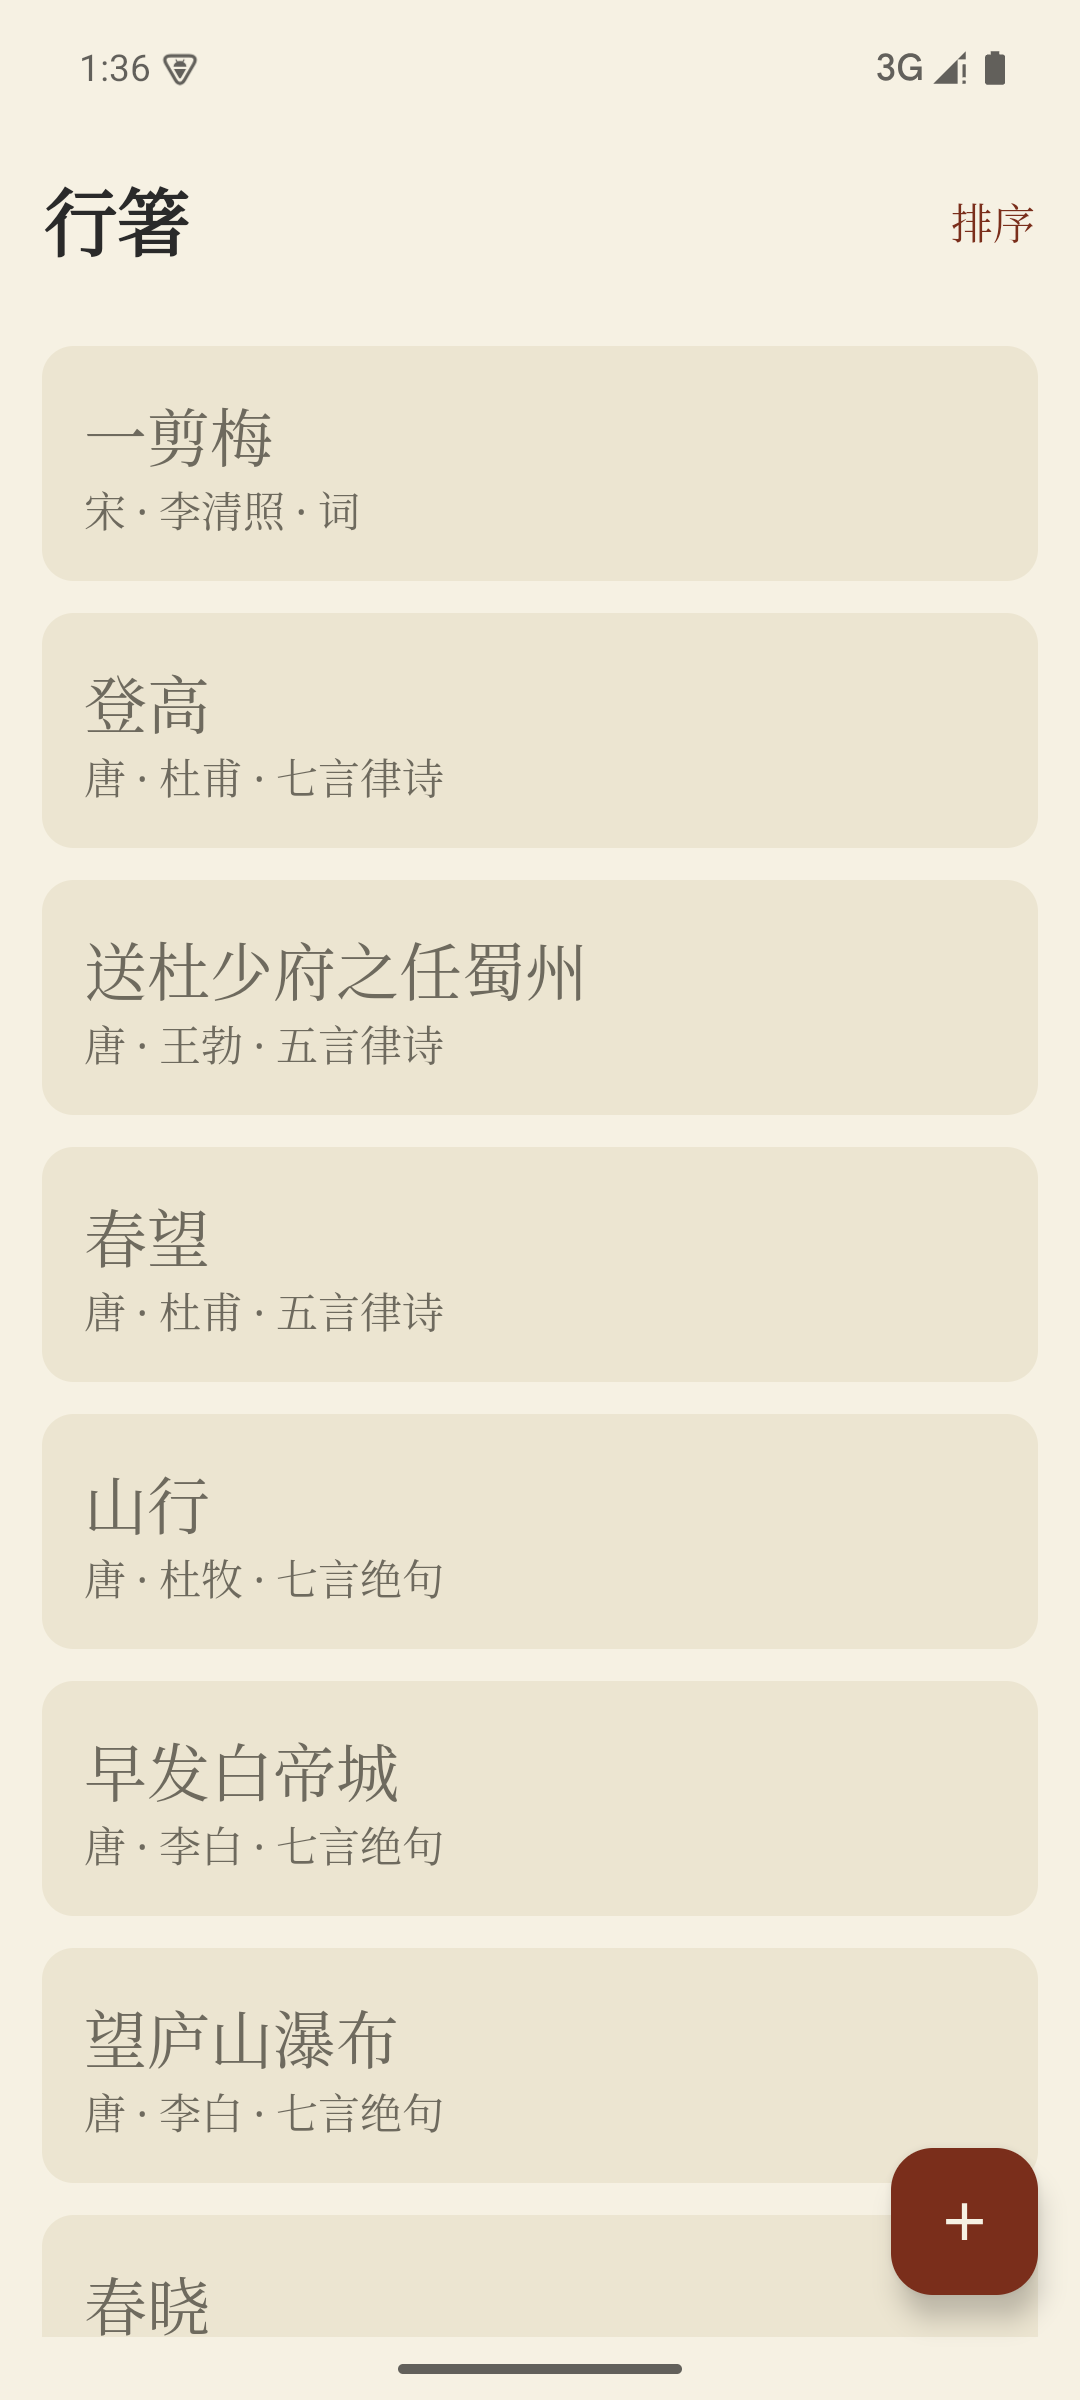
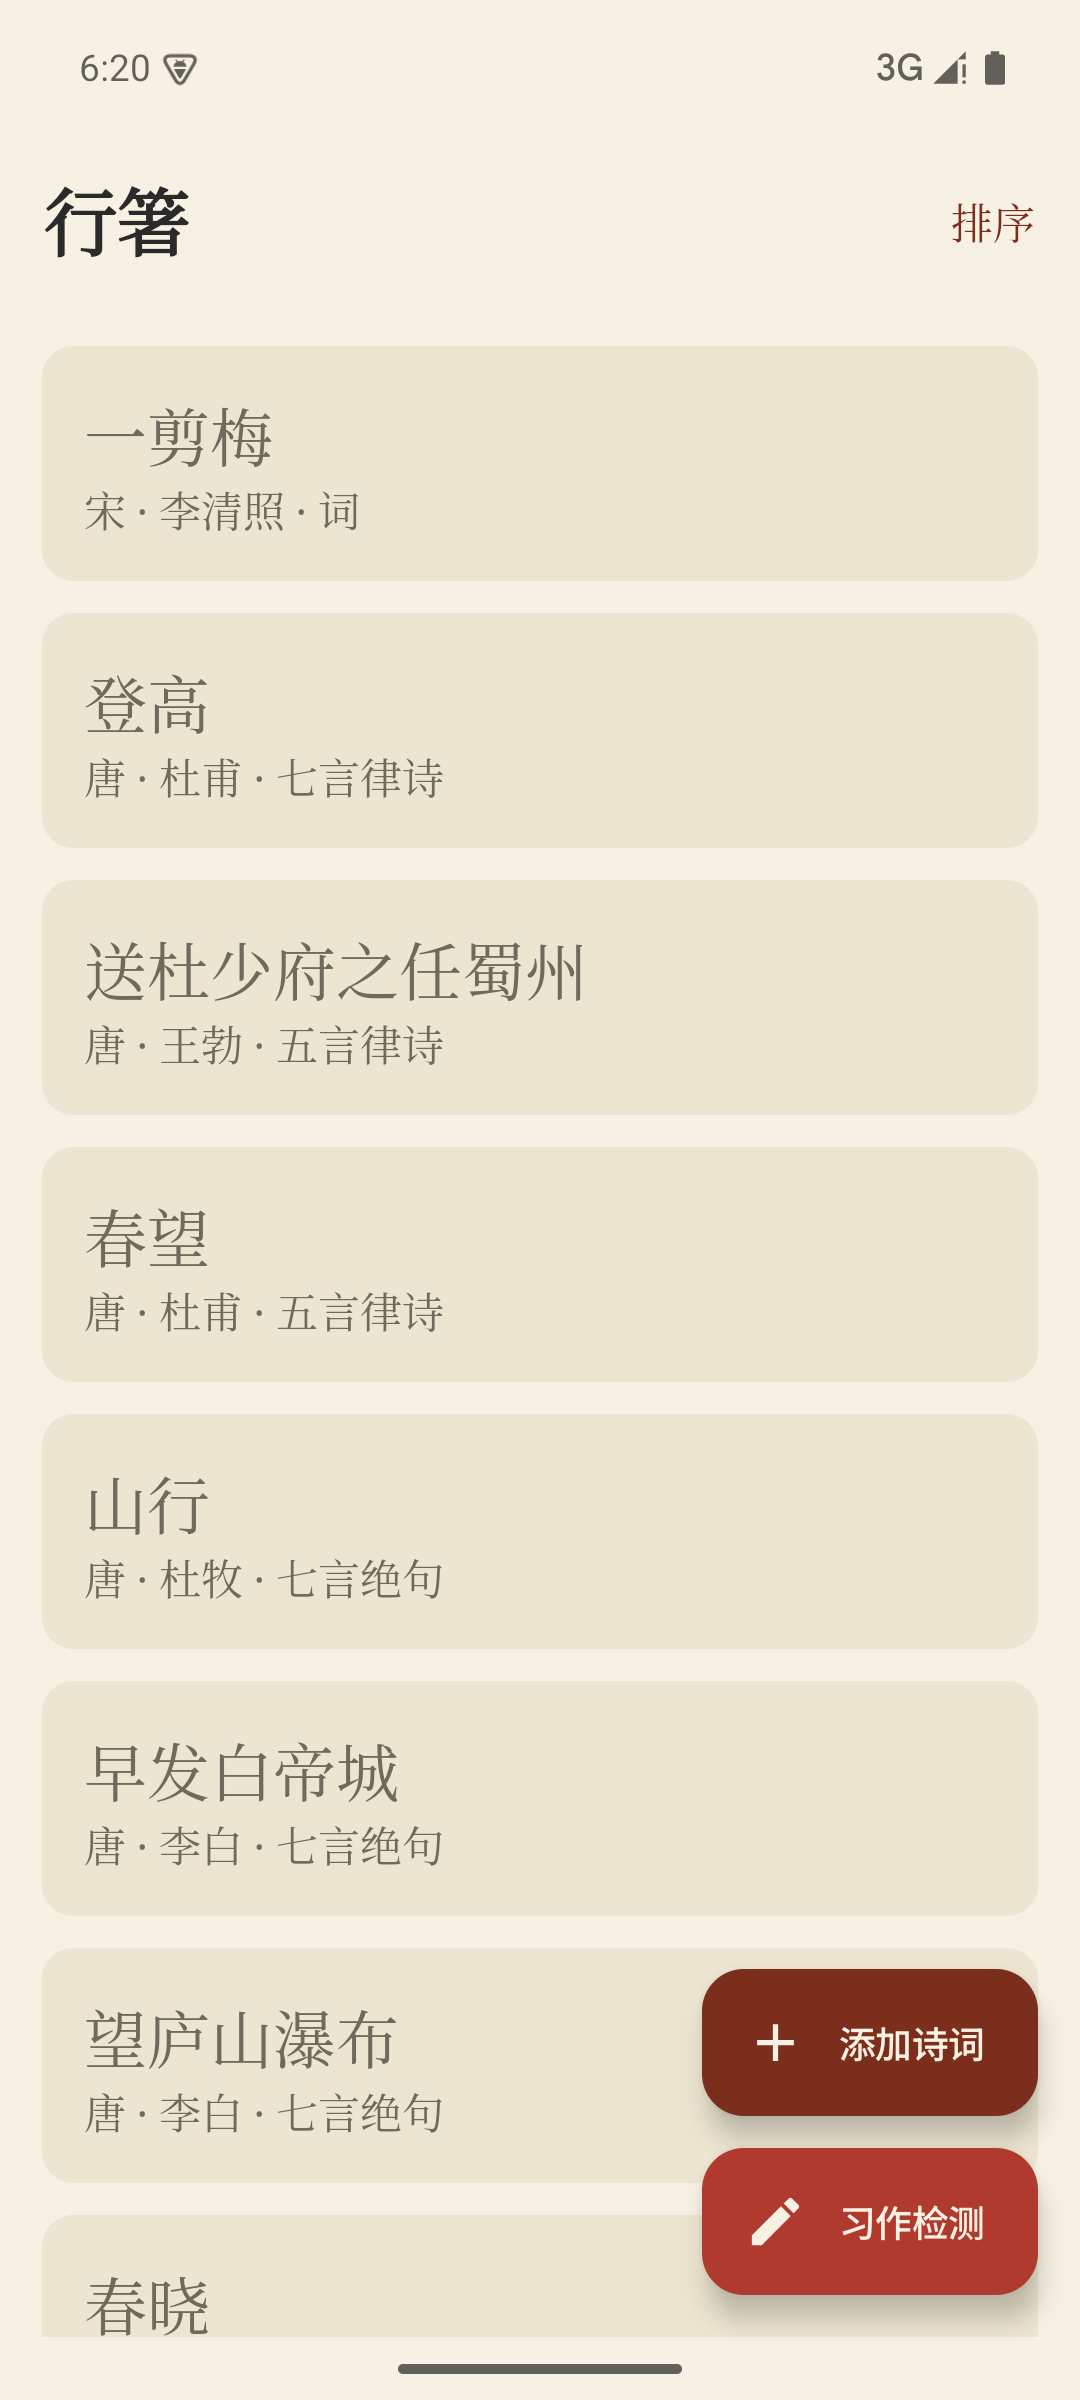
release: v0.2.0 发布准备
- 版本升至 0.2.0（versionCode 4）
- CHANGELOG 更新 0.2.0 发布条目（习作检测高亮、粘贴清洗、FAB 方案 B 等）
- 更新截图（书架新 FAB + 习作检测示例）与 README

Changed region(s): [[0.6417, 0.8125, 0.9778, 0.9688]]

diff --git a/CHANGELOG.md b/CHANGELOG.md
@@ -2,15 +2,17 @@
 
 版本号遵循[语义化版本](https://semver.org/lang/zh-CN/)。每个发布打 git tag：`v0.1.0` 起按语义化版本。
 
-## 0.2.0-alpha（未发布）
+## 0.2.0 - 2026-08-09
 
 ### 新增
 
 - **习作格律检测**：粘贴自创诗作，自动识别体裁（五/七言 绝/律），展示平仄韵脚并检测格律问题（孤平、三平尾、三仄尾、失对、失粘、出韵）
-- 书架新增「习作格律检测」入口（FAB）
+- 问题句**整行高亮**（淡朱砂底 + 行首 ⚠），失对/失粘相关两句都标出
+- 书架「习作格律检测」入口改为**带文字的朱砂扩展按钮**（与「添加诗词」清晰区分）
 
 ### 修复
 
+- **粘贴文本清洗**：去除网页复制带入的空白、换行、全角空格、零宽字符等（此前被当作"字"标注产生多余圆点）
 - 搜索结果：标题/作者命中优先；结果卡支持「展开全诗」区分同题诗
 - 引擎：`不→bù`、`过→guò` 读音修正（此前变调/罕见读致平仄误判）；出韵检测仅比对偶句韵脚
 - 语料/注释修复见 0.0.13（内部）

diff --git a/README.md b/README.md
@@ -17,9 +17,9 @@
 
 ## 截图
 
-| 书架 | 阅读页（平仄/韵脚标注） |
-| --- | --- |
-| ![书架](docs/screenshots/library.png) | ![阅读页](docs/screenshots/reader.png) |
+| 书架 | 习作格律检测 | 阅读页（平仄/韵脚标注） |
+| --- | --- | --- |
+| ![书架](docs/screenshots/library.png) | ![习作检测](docs/screenshots/check.png) | ![阅读页](docs/screenshots/reader.png) |
 
 ## 下载
 
